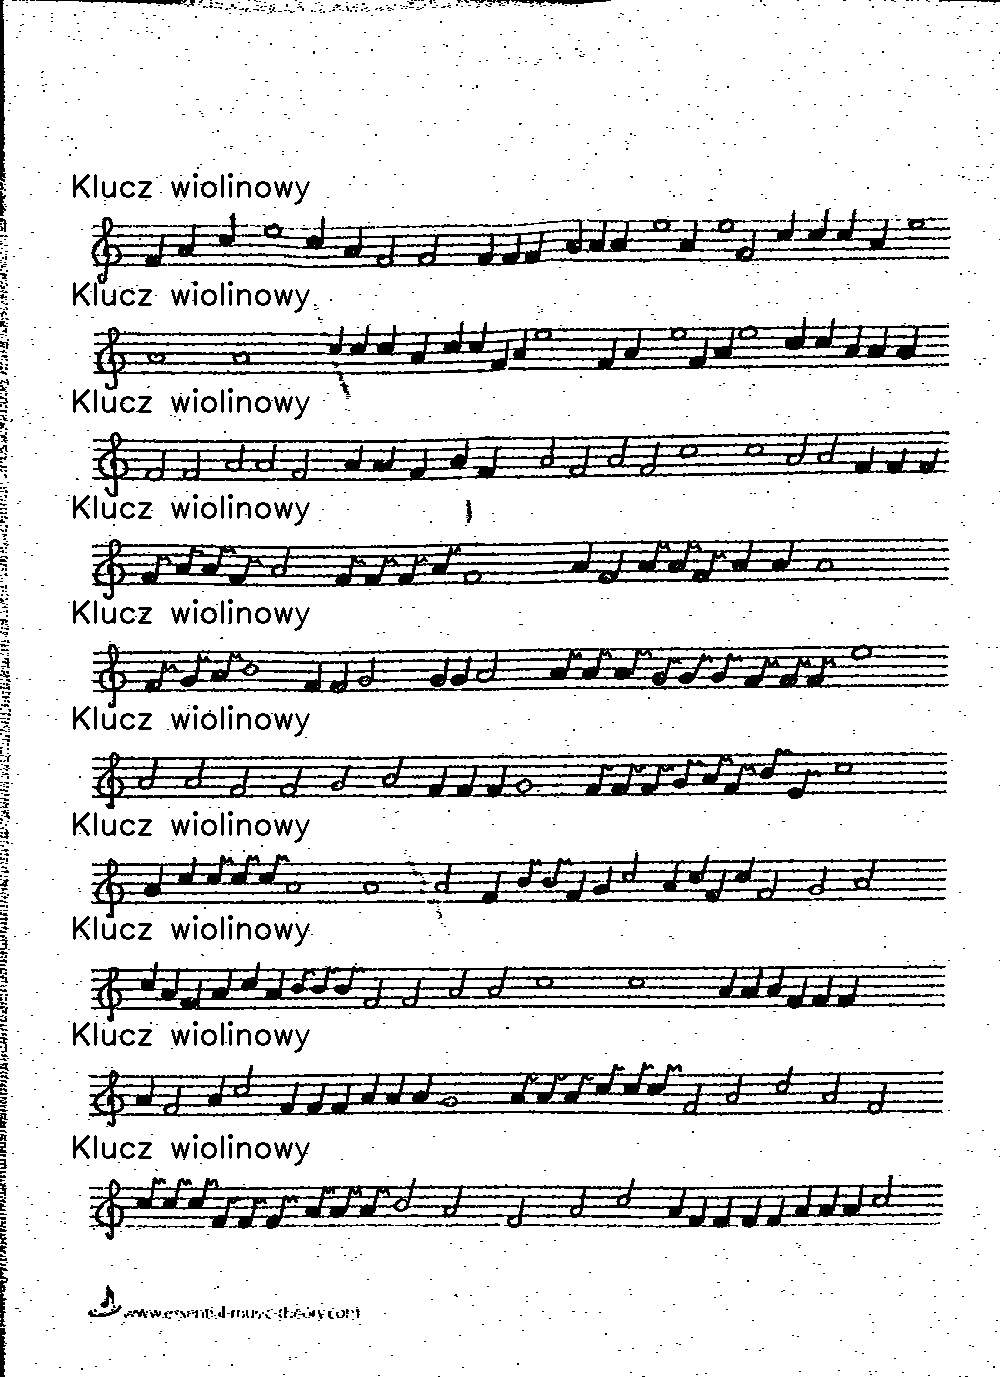
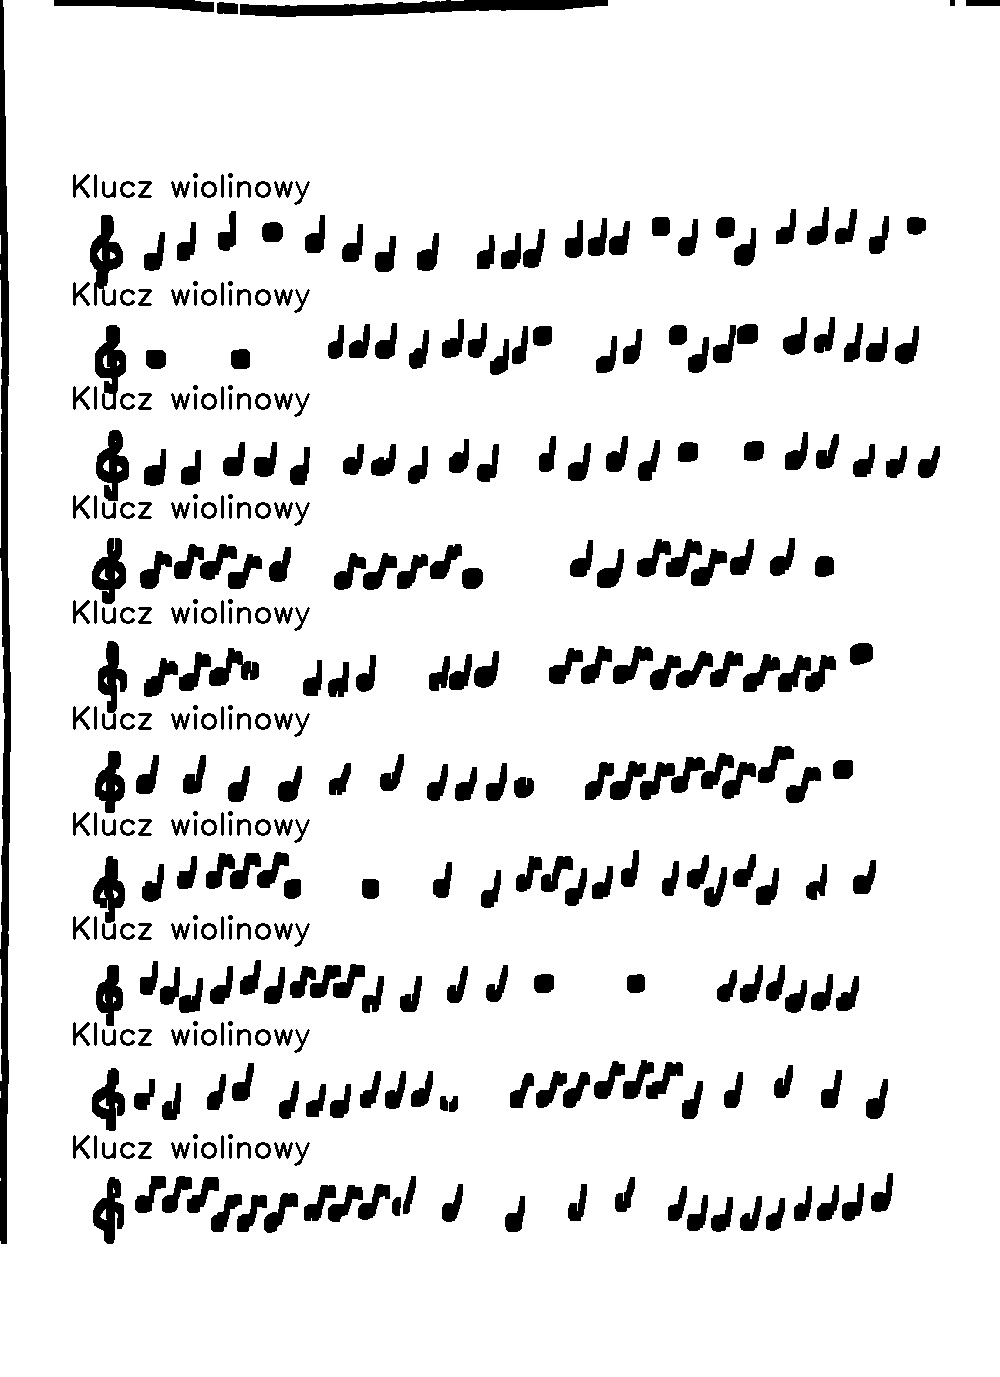
New files and keys for my branch

diff --git a/blob_detector.py b/blob_detector.py
@@ -9,6 +9,37 @@ def display_image(title, img):
 		cv2.waitKey(0) & 0xFF
 		cv2.destroyAllWindows()
 
+def minims_and_quarters(original_image, contours, thresholded):
+    T = threshold_local(original_image, 11, offset = 12, method = "mean")
+    light_threshold = (original_image > T).astype("uint8") * 255
+    # light_threshold = cv2.erode(light_threshold, np.ones((1, 2)))
+    # light_threshold = cv2.drawContours(light_threshold, contours, -1, (0,0,255), 2)
+    # display_image("czary", light_threshold)
+    minims = []
+    quarters = []
+    for cnt in contours:
+        max_x = np.max([x[0][:][0] for x in cnt]) 
+        min_x = np.min([x[0][:][0] for x in cnt]) 
+        max_y = np.max([x[0][:][1] for x in cnt]) 
+        min_y = np.min([x[0][:][1] for x in cnt]) 
+        x_diff = max_x - min_x
+        y_diff = max_y - min_y
+        x1 = int(min_x + 0.2 * x_diff)
+        x2 = int(max_x - 0.3 * x_diff)
+        y1 = int(min_y + 0.55 * y_diff)
+        y2 = int(max_y - 0.1 * y_diff)
+        #find mean of note's inside
+        mean = np.mean(light_threshold[y1:y2, x1:x2])
+        # print(mean)
+        # mean = np.mean(light_threshold[min_y:max_y, min_x:max_x])
+        if mean > 140:
+            minims.append(cnt)
+        else:
+            quarters.append(cnt)
+        # display_image("jol",light_threshold[y1:y2, x1:x2])
+        
+    return minims, quarters
+
 
 def extract_type_of_notes(contours, min_size, max_size, note_type):
     notes_contours = []
@@ -40,8 +71,10 @@ def find_contours(original, thresholded, staffs):
     eight_notes, centres_eights = extract_type_of_notes(contours, 110, 170, 3)
     eight_notes = [cnt for cnt in eight_notes if ( np.max([x[0][:][0] for x in cnt]) - np.min([x[0][:][0] for x in cnt]) ) > 26 ]
 
-    half_or_quarter, centres_hoq = extract_type_of_notes(contours, 91, 170, 2)
-    half_or_quarter = [cnt for cnt in half_or_quarter if ( np.max([x[0][:][0] for x in cnt]) - np.min([x[0][:][0] for x in cnt]) ) < 27 ]
+    minim_or_quarter, centres_hoq = extract_type_of_notes(contours, 91, 170, 2)
+    minim_or_quarter = [cnt for cnt in minim_or_quarter if ( np.max([x[0][:][0] for x in cnt]) - np.min([x[0][:][0] for x in cnt]) ) < 27 ]
+
+    minims, quarters = minims_and_quarters(original, minim_or_quarter, thresholded)
 
     staff_diff = 3/5 * (staffs[0].max_range - staffs[0].min_range)
     staffs_coordinates = []
@@ -62,14 +95,17 @@ def find_contours(original, thresholded, staffs):
                     fontScale=0.5, color=(0, 0, 255))
 
     with_notes = cv2.drawContours(background, full_notes, -1, (0,0,255), 2)
-    with_notes = cv2.drawContours(with_notes, eight_notes, -1, (0,255,255), 2)   
-    with_notes = cv2.drawContours(with_notes, half_or_quarter, -1, (255,0,255), 2)    
-    with_notes = imutils.resize(with_notes, height = 1000)
+    with_notes = cv2.drawContours(with_notes, eight_notes, -1, (0,255,255), 2) 
+    with_notes = cv2.drawContours(with_notes, minims, -1, (255,0,255), 2)   
+    with_notes = cv2.drawContours(with_notes, quarters, -1, (255,255,0), 2)   
+    # with_notes = cv2.drawContours(with_notes, minim_or_quarter, -1, (255,0,255), 2)
+
     return with_notes
 
 
+
 def remove_lines(im_with_blobs, method, size = 11, off = 10):
-    T = threshold_local(im_with_blobs, size, offset = off, method = method)#generic, mean, median
+    T = threshold_local(im_with_blobs, size, offset = off, method = method)
     im_with_blobs = (im_with_blobs > T).astype("uint8") * 255
 
     height, _ = im_with_blobs.shape

diff --git a/main.py b/main.py
@@ -12,18 +12,18 @@ def display_images(title, img):
         cv2.destroyAllWindows()
 
 # 7,11,15 are not adjusted properly
-# 29 is not read by staffs.py
+# 29,32,39 are not read by staffs.py
 def main():
-        for i in range(4,32):
-                if i not in [7,11,15,29]:
-                        # i = 4
+        for i in range(4,44):
+                if i not in [7,11,15,29,32,39]:
                         adjusted_image = adjust_photo(i)
                         height, width = adjusted_image.shape
                         if width < height:
                                 print(i)
                                 staffs = get_staffs(adjusted_image, i)
-                                horizontal_removed, im_with_blobs = detect_blobs(adjusted_image, staffs)
+                                horizontal_removed, with_contours = detect_blobs(adjusted_image, staffs)
                                 cv2.imwrite("blobs/"+repr(i)+".jpg", horizontal_removed)
-                                cv2.imwrite("blobs/"+repr(i)+"_bl.jpg", im_with_blobs)
+                                cv2.imwrite("blobs/"+repr(i)+"_cnts.jpg", with_contours)
+                                
 
 main()

diff --git a/keys.py b/keys.py
@@ -55,13 +55,13 @@ def findKey(yHigh, yLow, x, y, img):
     return found, (xLeft, yHigh - propLow)
 
 
-def processImage(index, imagePath, stavesPath):
+def processImage(index):
 
-    stavesImage = adjuster.adjust_photo(index)
+    adjustedImage = adjuster.adjust_photo(index)
     blockPrint()
-    staves = sts.get_staffs(stavesImage, index)
+    staves = sts.get_staffs(adjustedImage, index)
     enablePrint()
-    img = cv2.imread(imagePath, 0)
+    img = cv2.erode(bd.remove_lines(adjustedImage, "mean", size = 11, off = 24), np.ones((9, 5)))
     places = []
     whatKey = []
 
@@ -86,12 +86,12 @@ def processImage(index, imagePath, stavesPath):
         
 
 
-for i in range(1, 31):
-    if i in [1, 2, 3, 7, 11, 12, 14, 15, 29]:
+for i in range(1, 43):
+    if i in [1, 2, 3, 7, 11, 15, 29, 32, 39]:
         continue
     else:
         print("Rozpoczynam wyszukiwanie w obrazie " + repr(i))
-        processImage(i, "staffs/staffs" + repr(i) + "_erode.png", "output/warped" + repr(i) + "_gray.jpg")
+        processImage(i)
     
         
    
